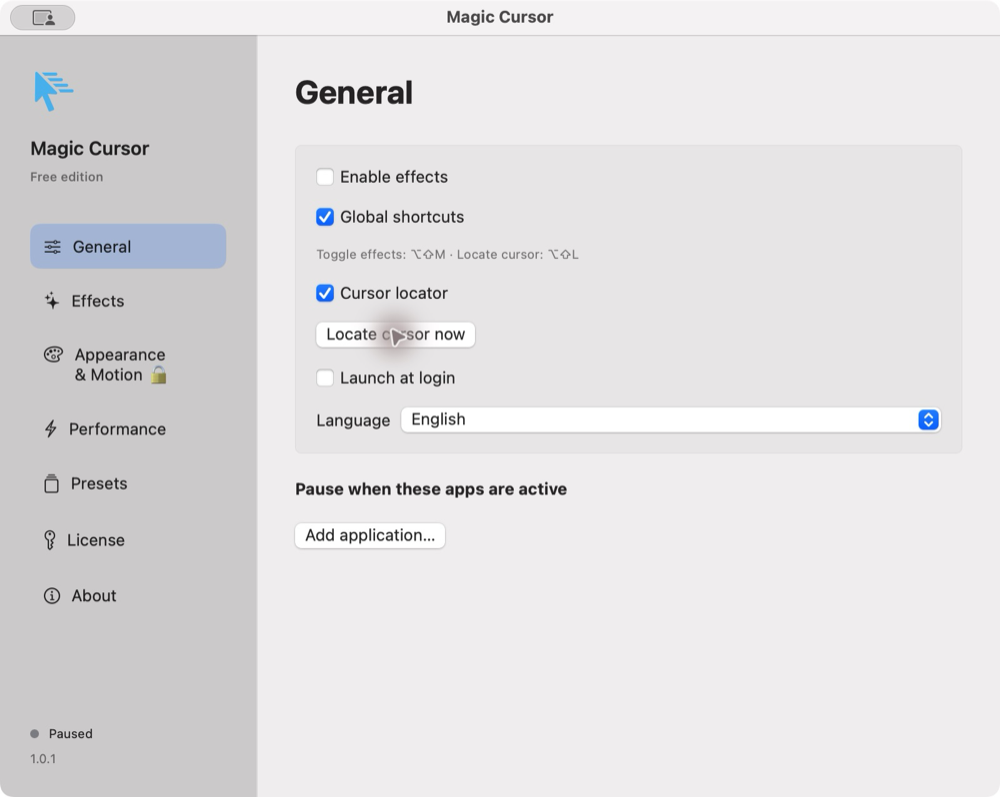
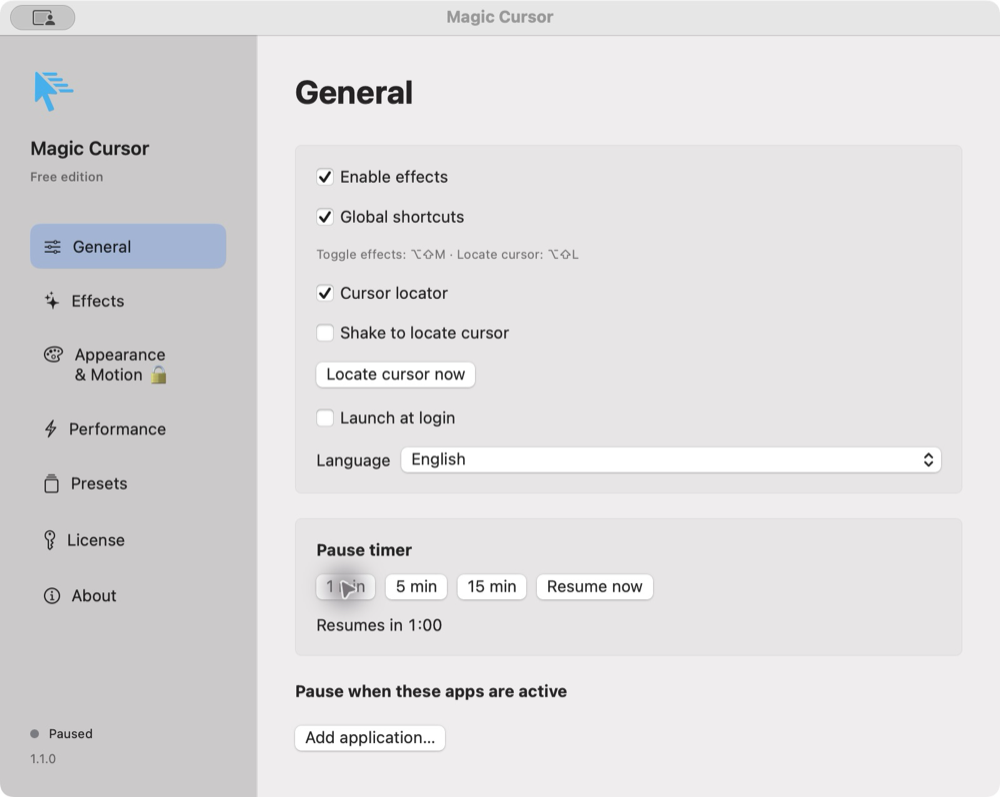
Release 1.1.0 with Free workflow tools and Pro presentation features

diff --git a/README.md b/README.md
@@ -8,7 +8,7 @@
 <p align="center">Ink, light and subtle ripples that respond to the way you move.</p>
 
 <p align="center">
-  <img src="https://img.shields.io/badge/release-1.0.1-38BDF8" alt="1.0.1 release" />
+  <img src="https://img.shields.io/badge/release-1.1.0-38BDF8" alt="1.1.0 release" />
   <img src="https://img.shields.io/badge/macOS-13%2B%20target-111827" alt="macOS 13 and later deployment target" />
   <img src="https://img.shields.io/badge/build-Universal-6366F1" alt="Universal build" />
 </p>
@@ -26,7 +26,7 @@
 Magic Cursor is a native macOS menu bar app that adds expressive effects around your existing cursor. Smooth ink follows your path, light stretches with your speed, and small pulses respond to turns, pauses and clicks. Each effect can be switched on independently, with presets for a quick start and finer controls for a personal look.
 
 > [!NOTE]
-> **1.0.1 is available.** [Download Free from GitHub](https://github.com/LEEmj526/magic-cursor/releases/latest/download/MagicCursor-v1.0.1.dmg) or [buy Pro for $1.49 USD](https://1380489593066.gumroad.com/l/magic-cursor-pro). The Universal DMG is ad hoc signed and has not been notarized by Apple; first launch may need an extra macOS approval step. Automatic update distribution is still being prepared.
+> **1.1.0 is available.** [Download Free from GitHub](https://github.com/LEEmj526/magic-cursor/releases/latest/download/MagicCursor-v1.1.0.dmg) or [buy Pro for $1.49 USD](https://1380489593066.gumroad.com/l/magic-cursor-pro). The Universal DMG is ad hoc signed and has not been notarized by Apple; first launch may need an extra macOS approval step. Automatic update distribution is still being prepared.
 
 <p align="center">
   <img src="screenshots/settings.png" alt="Actual Magic Cursor effect settings in English" width="800" />
@@ -35,7 +35,7 @@ Magic Cursor is a native macOS menu bar app that adds expressive effects around 
 
 ## Features
 
-### Five effects, one familiar cursor
+### Six effects, one familiar cursor
 
 Magic Cursor keeps the macOS pointer and draws effects around it. The overlay passes clicks through, stays out of keyboard focus and draws above ordinary app windows, including System Settings. Switch effects independently in **Settings → Effects**.
 
@@ -46,6 +46,7 @@ Magic Cursor keeps the macOS pointer and draws effects around it. The overlay pa
 | **Orbit Dust** | Small specks appear when you change direction sharply. Particle count and lifetime are bounded. | Turn threshold, particles per turn, lifetime and total particle limit. |
 | **Rest Pulse** | One gentle pulse appears after movement stops. It waits for movement before firing again. | Rest delay. |
 | **Action Ripple** | Different ripples respond to left, right and double clicks. | Ripple duration. Click delivery depends on macOS event policies. |
+| **Focus Spotlight** | Dims the active display outside a clear circle around the cursor for presentations. Other displays remain unchanged. | Spotlight radius and background dimming. Disabled with Reduce Transparency. |
 
 ### Ready-made looks
 
@@ -56,6 +57,7 @@ Magic Cursor keeps the macOS pointer and draws effects around it. The overlay pa
 | **Aurora** | Ink and glow with color changing by direction. | Trial, Pro |
 | **Orbit** | Ink and glow, with turn particles and a rest pulse. | Trial, Pro |
 | **Minimal** | A thinner, shorter ink trail. | Trial, Pro |
+| **Presentation** | Focus Spotlight and click ripples, with no ink or glow. | Trial, Pro |
 
 Presets are starting points. Changes apply immediately and save automatically. In Pro or Trial, save a custom look as a named preset and share it as a JSON file.
 
@@ -76,22 +78,24 @@ Presets are starting points. Changes apply immediately and save automatically. I
 |---|:---:|:---:|
 | Motion Ink and Kinetic Glow | Basic controls | Full controls |
 | Ink and Halo presets | ✓ | ✓ |
-| Orbit Dust, Rest Pulse and Action Ripple | — | ✓ |
-| All five built-in presets | — | ✓ |
+| Orbit Dust, Rest Pulse, Action Ripple and Focus Spotlight | — | ✓ |
+| All six built-in presets | — | ✓ |
 | Custom colors, Aurora and advanced motion settings | — | ✓ |
 | Create and import custom presets | — | ✓ |
 | Export the selected preset | ✓ | ✓ |
 | Intensity, display overlays and battery saving | ✓ | ✓ |
-| Global shortcuts and cursor locator | ✓ | ✓ |
+| Global shortcuts, cursor locator and shake-to-locate | ✓ | ✓ |
+| 1 / 5 / 15 minute pause timer | ✓ | ✓ |
+| Spotlight size / dimming and Presentation preset | — | ✓ |
 | Update checks when release distribution is configured | ✓ | ✓ |
 
 **Try Pro for 3 days (72 hours).** Open **Settings → License** and choose **Start 3-day Pro trial** when you are ready. The trial starts only when you select that button, can be started once on this Mac and does not charge a card or create a subscription. Quitting or reinstalling the app does not reset a retained Keychain trial record.
 
-At expiry, Magic Cursor returns to Free. Your saved settings and presets stay on your Mac; a valid Pro license restores access to those settings. Version 1.0.1 uses the original saved start time for the new 72-hour window, including trials started in the earlier beta.
+At expiry, Magic Cursor returns to Free. Your saved settings and presets stay on your Mac; a valid Pro license restores access to those settings. Version 1.1.0 uses the original saved start time for the new 72-hour window, including trials started in the earlier beta.
 
 ## Installation
 
-**[Download Magic Cursor 1.0.1 — free DMG](https://github.com/LEEmj526/magic-cursor/releases/latest/download/MagicCursor-v1.0.1.dmg).** No Gumroad account or purchase is needed for the GitHub download. The same app supports Free, the 3-day trial and Pro; a valid license unlocks Pro without reinstalling. [Release notes and checksums](https://github.com/LEEmj526/magic-cursor/releases/latest). There is no Homebrew cask yet.
+**[Download Magic Cursor 1.1.0 — free DMG](https://github.com/LEEmj526/magic-cursor/releases/latest/download/MagicCursor-v1.1.0.dmg).** No Gumroad account or purchase is needed for the GitHub download. The same app supports Free, the 3-day trial and Pro; a valid license unlocks Pro without reinstalling. [Release notes and checksums](https://github.com/LEEmj526/magic-cursor/releases/latest). There is no Homebrew cask yet.
 
 1. Download the official **MagicCursor** DMG.
 2. Open it and drag **Magic Cursor** into **Applications**.
@@ -113,7 +117,7 @@ Downloading through Terminal or a package manager does not sign or notarize an a
 2. Select **Ink** or **Halo**. Both work in Free.
 3. Move the pointer around and adjust **Intensity**. Lower it for a more subtle look.
 4. Open the gear icon or **Customize effects…** for the full settings window.
-5. In **Effects**, enable only the effects you want. The three additional effects require Trial or Pro.
+5. In **Effects**, enable only the effects you want. The four additional effects require Trial or Pro.
 
 ### Customize the motion
 
@@ -129,6 +133,7 @@ In **Settings → Appearance & Motion** (Trial or Pro):
 | Glow minimum radius / maximum length / opacity | The size, stretch and strength of the halo. |
 | Turn threshold / particles per turn / particle lifetime | When turn particles appear, their count and how long they live. |
 | Rest delay / click ripple duration | How long a stop waits before pulsing, and how long a click ripple lasts. |
+| Spotlight radius / background dimming | The size of the clear circle and the darkness outside it on the active display. |
 
 For less visual clutter, shorten the trail, reduce intensity, or disable Orbit Dust and Action Ripple. To emphasize direction, try Aurora and increase the glow length.
 
@@ -140,6 +145,12 @@ For less visual clutter, shorten the trail, reduce intensity, or disable Orbit D
 4. Use **Export…** to save the selected preset as JSON. Use **Import…** to load a preset (Trial or Pro).
 
 Changes are saved automatically. Export a preset before experimenting if you want a separate copy. You can delete custom presets from the Presets screen; built-in presets remain available.
+
+### Find your cursor and take a break
+
+- **Shake to locate:** enable this optional switch in General, then move the cursor briskly back and forth three times. Small jitter and normal movement do not trigger it. A cooldown prevents repeated flashes. The locator respects Reduce Motion. This option is off by default; when enabled, lightweight position sampling continues while ordinary effects are disabled.
+- **Pause timer:** select **1 min**, **5 min** or **15 min** in General or the menu bar. Effects and cursor location gestures pause, with a visible countdown and **Resume now** button. The timer uses elapsed system time. At expiry, effects resume only when the active app and screen/session allow them. Turning Enable effects off cancels the timer; quitting discards the temporary timer.
+- **Presentation (Trial/Pro):** apply this preset to use Focus Spotlight with click ripples. Tune Spotlight radius and Background dimming in Appearance & Motion. The spotlight dims only the display containing the cursor; it does not capture a screen or change the OS brightness. Reduce Transparency suppresses the dimming.
 
 ### Battery, games and login
 
@@ -193,7 +204,7 @@ Check **Enable effects**, individual switches in **Settings → Effects**, and a
 <details>
 <summary><strong>Some effects or presets are locked.</strong></summary>
 
-Orbit Dust, Rest Pulse, Action Ripple and advanced presets/settings require Pro or an active 3-day trial. Start the trial manually in **Settings → License**. When it expires, Free continues working and saved Pro preferences are retained.
+Orbit Dust, Rest Pulse, Action Ripple, Focus Spotlight and advanced presets/settings require Pro or an active 3-day trial. Start the trial manually in **Settings → License**. When it expires, Free continues working and saved Pro preferences are retained.
 
 </details>
 
@@ -231,7 +242,7 @@ The deployment target and Universal build do not establish runtime compatibility
 
 ## Roadmap
 
-- [x] Five motion-responsive effects and independent effect controls.
+- [x] Six cursor effects and independent effect controls.
 - [x] Menu bar controls, settings, presets and English/Korean interfaces.
 - [x] Per-display overlays, power saving, accessibility preferences and app exclusions.
 - [x] Free/Pro permissions and an explicit 3-day trial.
@@ -242,7 +253,7 @@ The deployment target and Universal build do not establish runtime compatibility
 - [ ] Complete Developer ID signing, app/DMG notarization and a real update round trip.
 - [ ] Validate additional macOS versions, Intel Macs, multiple displays and long-session performance.
 - [x] Global effect shortcuts and a cursor locator available in every edition.
-- [x] Publish the 1.0.1 DMG and English documentation on GitHub.
+- [x] Publish the 1.1.0 DMG and English documentation on GitHub.
 
 ## Privacy
 

diff --git a/RELEASE_NOTES.md b/RELEASE_NOTES.md
@@ -1,16 +1,23 @@
-# Magic Cursor 1.0.1
+# Magic Cursor 1.1.0
 
-- Reduced the one-time Pro price to **$1.49 USD**.
-- Added **Option + Shift + M** to pause/resume effects and **Option + Shift + L** to locate the cursor.
-- Added a brief cursor locator ring that works while normal effects are paused. Both new workflow tools are available in Free, Trial and Pro, with switches in General and menu/button alternatives.
-- The locator respects app exclusions, lock/sleep and Reduce Motion.
+## New in Free
 
-Includes the 1.0.0 improvements: explicit Free/Pro labels, dimmed locked Pro controls, overlays above System Settings, license paste fixes and installed-app selection by name.
+- Optional shake-to-locate: move the cursor briskly back and forth to reveal a locator ring. Off by default, with a cooldown to avoid repeated flashes.
+- Pause effects for 1, 5 or 15 minutes from General or the menu bar. A countdown and Resume now button make it easy to take a break. Effects resume when the timer ends and the current app/session allows them.
+- Existing global shortcuts and cursor locator remain free.
 
-## Installation
+## New in Pro and the 3-day trial
 
-Open the DMG, drag Magic Cursor to Applications, then launch it. Free includes Motion Ink and Kinetic Glow. Start the optional 3-day Pro trial in Settings → License.
+- Focus Spotlight dims the active display outside a clear circle around the cursor.
+- Adjust the spotlight radius and background dimming.
+- New Presentation preset combines the spotlight and click ripples.
 
-This build is ad hoc signed and not Apple notarized. First launch may require System Settings → Privacy & Security → Open Anyway for this specific app. It targets macOS 13+ and includes arm64 and x86_64; runtime testing covers macOS 15.8.1 on Apple Silicon with one display. Protected system screens can still restrict overlays. No automatic update feed is configured.
+**Pro stays $1.49 USD, one-time.** Free keeps basic Ink/Halo effects and practical workflow controls; Pro adds presentation effects and advanced customization.
 
-Seller test purchase/API verification and isolated Pro activation are checked. Activation from an actual paid purchase and a real refund remain unverified. Seller test keys cannot unlock the public build; a separate local developer test app is available to the developer and is not included in this download.
+## Installation and validation
+
+Download MagicCursor-v1.1.0.dmg, drag Magic Cursor into Applications, then launch it. No account is required for the GitHub installer. The same app supports Free, the optional 3-day trial and Pro.
+
+This Universal build targets macOS 13+, is ad hoc signed and has not been notarized by Apple. First launch may require Privacy & Security → Open Anyway for this specific app. Runtime testing covers macOS 15.8.1 on Apple silicon with one display. No automatic update feed is configured.
+
+45 unit tests, 9 release configuration checks and 53 AppKit smoke checks passed. Native UI checks covered the Free/Pro locks, pause countdown and manual resume. Physical keyboard hotkeys, real shake gestures, other macOS versions, Intel runtime and multiple displays still need broader manual testing. Actual paid-purchase activation and refund testing remain unverified; seller test keys work only in the separate developer test app.

diff --git a/INSTALLATION.md b/INSTALLATION.md
@@ -1,6 +1,6 @@
 # Installation and troubleshooting
 
-Download [Magic Cursor 1.0.1 from GitHub](https://github.com/LEEmj526/magic-cursor/releases/latest). No account or payment is required for the DMG. The release is ad hoc signed and not Apple notarized. On first launch, macOS may require System Settings → Privacy & Security → Open Anyway for this specific app.
+Download [Magic Cursor 1.1.0 from GitHub](https://github.com/LEEmj526/magic-cursor/releases/latest). No account or payment is required for the DMG. The release is ad hoc signed and not Apple notarized. On first launch, macOS may require System Settings → Privacy & Security → Open Anyway for this specific app.
 
 For a released build, open the DMG and drag Magic Cursor to Applications. Launch it and complete onboarding. It lives in the menu bar, with no Dock icon. Enable effects from the menu bar panel; open Settings with Command-comma and quit with Command-Q.
 

diff --git a/CHANGELOG.md b/CHANGELOG.md
@@ -1,5 +1,14 @@
 # Changelog
 
+## 1.1.0 — 2026-10-10
+
+- Free: added opt-in shake-to-locate with deliberate reversal detection and a cooldown.
+- Free: added 1, 5 and 15 minute effect pause timers with a countdown, automatic resume and Resume now.
+- Pro / 3-day trial: added Focus Spotlight, radius/dimming controls and a Presentation preset.
+- Preserved app exclusions, lock/sleep and accessibility preferences for the new tools.
+- Pro remains $1.49 USD one-time.
+
+
 ## 1.0.1 — 2026-10-10
 
 - Reduced the one-time Pro price to $1.49 USD.
